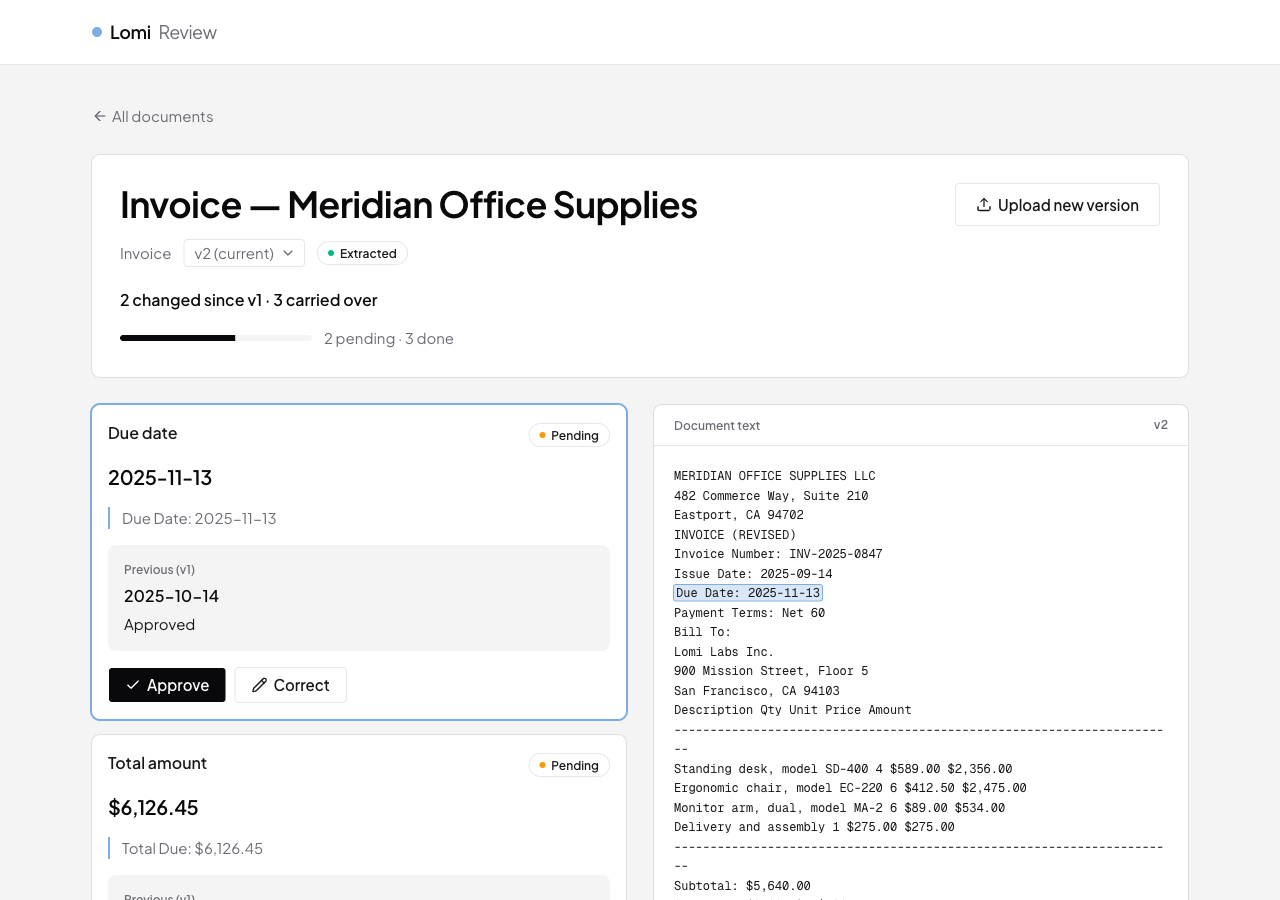
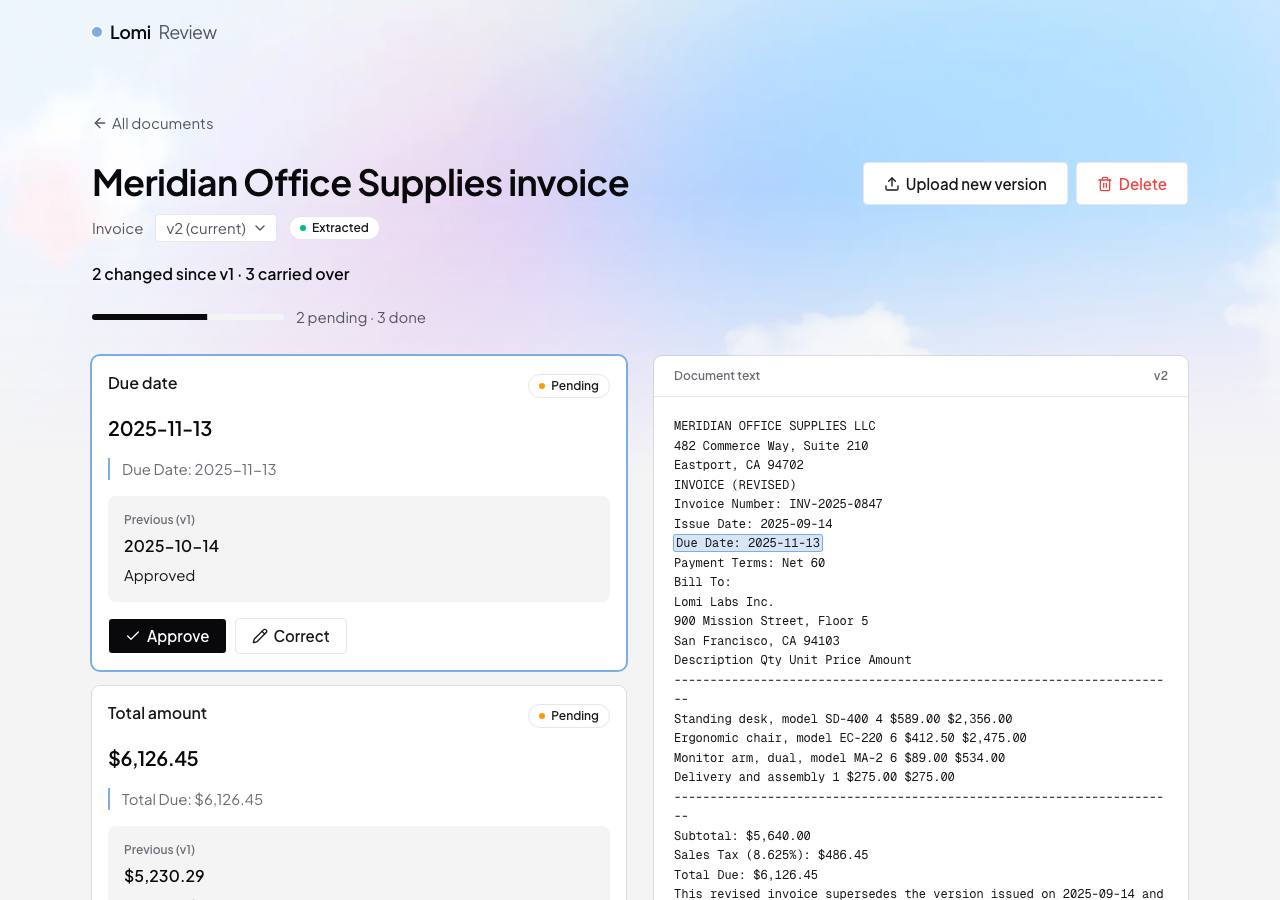
Retake the README screenshot with the new backdrop and header
The hero shot showed the old boxed header. The new one is the same
story in the spec 012 UI: a revised invoice with two values changed
since v1 (their v1 value and approval under them), three carried over,
and the selected value's quote marked in the text. Taken with headless
Chrome at 1280x900 through nginx, from a document built through the API
(v1 uploaded and approved, then the revised PDF as v2), since
doc-invoice-001 is now at v3 with nothing changed.

diff --git a/README.md b/README.md
@@ -20,7 +20,7 @@ When a revised PDF arrives, reviews of unchanged values carry over, and only wha
 </div>
 
 <p align="center">
-  <img src="docs/review-v2.png" alt="The revised invoice: the summary reads 2 changed since v1 and 3 carried over; the changed due date shows its v1 value and approval beside it, and the matching quote is highlighted in the document text." width="900">
+  <img src="docs/review-v2.png" alt="The revised invoice: the summary reads 2 changed since v1 and 3 carried over; the changed due date shows its v1 value and approval under it, and the matching quote is highlighted in the document text." width="900">
   <br>
   <sub>The revised invoice: the two changed values are on top with their v1 value and review, the rest carried over, and the selected value's quote is marked in the text.</sub>
 </p>
